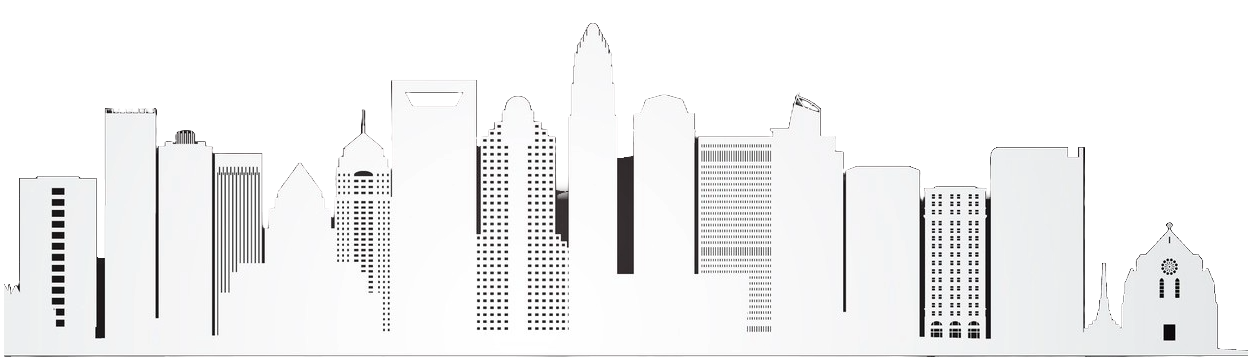
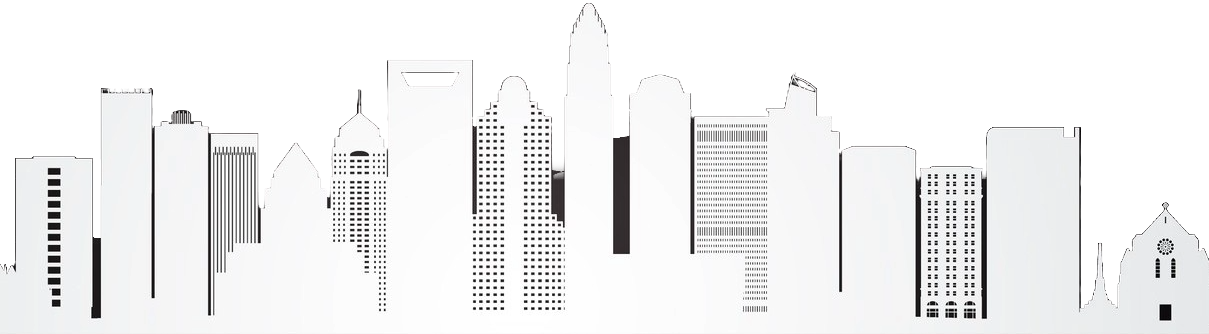
update iamge

diff --git a/assets/css/style.css b/assets/css/style.css
@@ -2278,18 +2278,19 @@ textarea.form-input::-webkit-resizer { display: none; }
 }
 
 .charlotte-image-container{
-  margin-top: 30px;
+  margin-top: 80px;
+
 }
 
 .charlotte-image {
   width: 100%; 
   height: auto;
   display: block;
-  /* margin: 0 -30px -60px -40px;  */
   padding: 0;
   border-radius: 20px;
   border: 0;
   transition: transform 0.3s ease;
+  filter: brightness(0.78) contrast(1.1) saturate(0.8); 
 }
 
 @media (max-width: 580px) {
